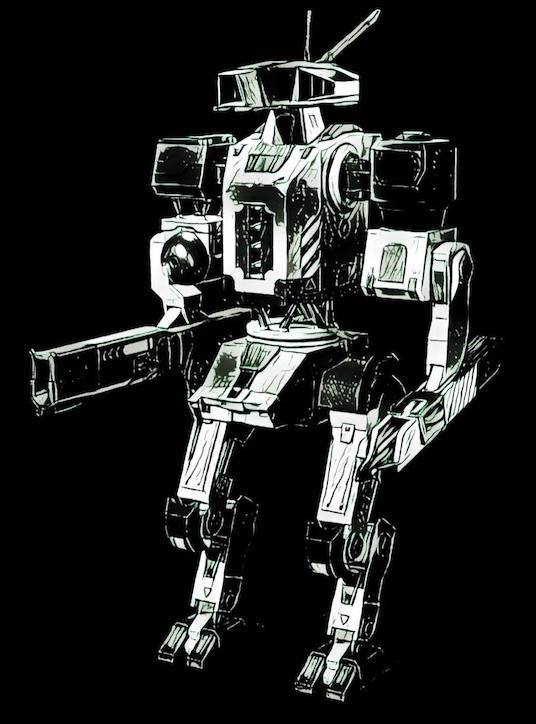
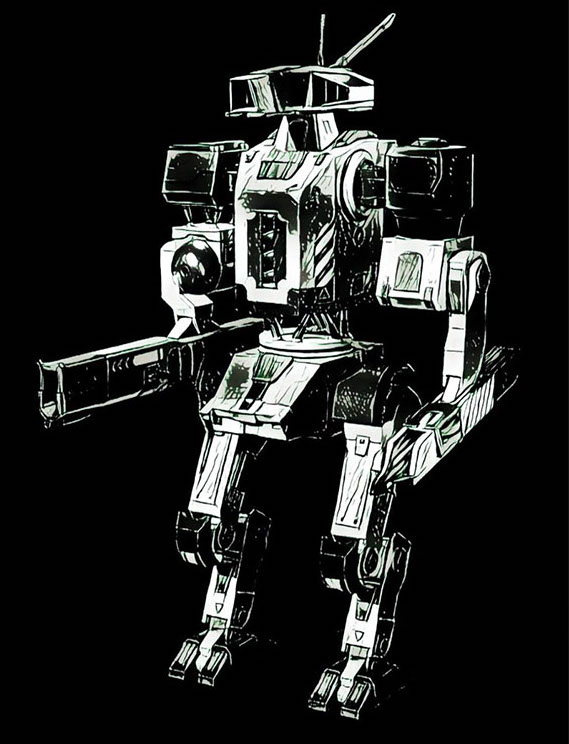
update

Changed region(s): [[0.0597, 0.0, 0.9254, 0.9724]]

diff --git a/index.html b/index.html
@@ -16,9 +16,9 @@
     <h1 class="e-title">Crossverse</h1>
 
     <div class="e-content">
-      <p> Cross-metaverse play to earn experience.</p>
+      <p> Cross-metaverse play to earn experience</p>
       <p> Explore worlds, solve quests, build robots, win battles,... have fun!</p>
-      <p class="small"> Comming soon, subscribe for updates:</p>
+      <p class="small"> Comming soon, subscribe for updates: </p>
 
       <form id="e-form" action="https://formspree.io/f/myyoeeoj" method="POST">
         <div class="e-form-input">
@@ -31,7 +31,7 @@
     </div>
 
     <div class="e-image">
-      <img src="robot.jpg" alt="Robot" width="536">
+      <img src="robot.jpg" alt="Robot" width="600" height="799">
     </div>
   </div>
 
@@ -40,42 +40,51 @@
       margin: 0;
       padding: 0;
     }
+
     body {
       background-color: #000;
     }
   
-    .e-container {
-      background-color: #000;
+    .e-container {     
       color: #fff;
-      width: 600px;
+      max-width: 600px;
       margin: 0 auto;
-      font-family: 'Barlow Condensed', sans-serif;      
+      font-family: 'Barlow Condensed', sans-serif;
+      width: 100%;
     }  
 
     .e-title {      
-      font-size: 72px;
+      font-size: 58px;
       text-transform: uppercase;
       text-align: center;
-      margin-bottom: 30px;
-      padding-top: 60px;
+      margin-bottom: 30px;      
+      padding: 60px 20px 0;
     }
 
     .e-content {
-      width: 326px;
+      font-size: 24px;
+      max-width: 326px;
       margin: 0 auto;
+      padding: 0 20px;
     }
 
-    .e-content p {
-      font-size: 32px;
+    .e-content .small {
+      font-size: 20px;
+    }
+
+    .e-content p {     
       margin-bottom: 1.1em;
       line-height: 1.4;
     }
-    .e-content p.small {
-      font-size: 24px;
+
+    .e-image {
+      text-align: center
     }
 
     .e-image img {
-      display: block;
+      max-width: 100%;
+      height: auto;
+      display: inline-block;      
     }
 
     /* Form */
@@ -91,7 +100,7 @@
     }
 
     .e-form-input {
-      width: 250px;
+      width: 200px;
       display: inline-block;
       vertical-align: bottom;
       margin-right: 10px;
@@ -120,12 +129,48 @@
       color: #ff6f6f;
       text-align: center;
     }
+    
+    @media screen and (min-width: 425px) {
+      .e-title {
+        font-size: 72px;
+      }
 
-    .fix {
-      position:fixed;
-      bottom:0px;
-      /*left:50%;*/
+      .e-content {
+        font-size: 32px;
+      }
+
+      .e-content .small {
+        font-size: 24px;
+      }
+
+      .e-form-input {
+        width: 250px;
+      }
     }
+    
+
+    @media screen and (min-width: 1025px) { 
+      .e-container {             
+        max-width: 10000px; 
+      }
+
+      .e-content {
+        max-width: 800px;
+      }
+
+      .e-content p {        
+        margin-bottom: .5em;
+      }
+
+      #e-form {
+        margin-top: 40px;
+      }
+
+      .e-form-input {
+        width: 720px;
+      }
+    }
+
   </style>
 
   <script>
